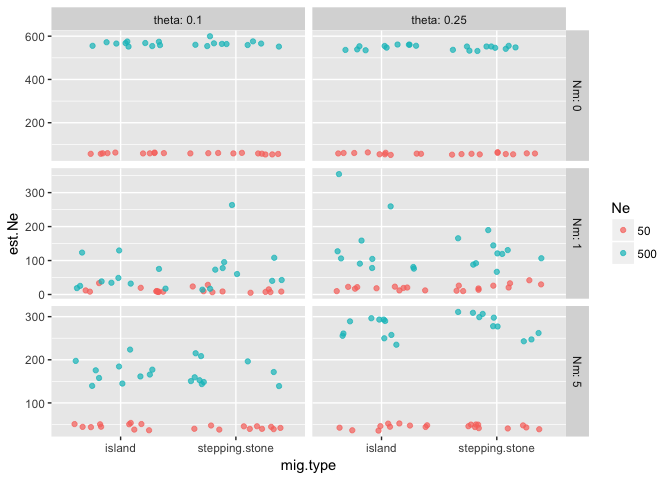
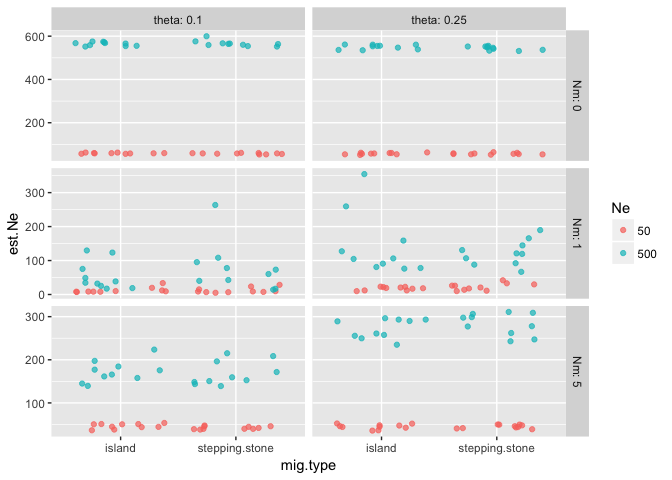
readme update

diff --git a/README.md b/README.md
@@ -1,7 +1,7 @@
 Simulated Data Summary, version 5
 =================================
 
-    2016-12-25
+    2016-12-29
 
 The data was generated with a fastsimcoal simulation that created allele frequencies at equilibrium and were then used to initialize and run 5 generations of an rmetasim simulation.
 
@@ -84,7 +84,7 @@ Simulated data diagnostics
 
 Below are diagnostic values from the final datasets generated from fastsimcoal and rmetasim. Ten replicates of the above scenarios were run through fastsimcoal, and the resulting allele frequencies were used to initialize a single run of rmetasim for 5 generations.
 
--   Ne (est.Ne) is estimated with the `ldNe` function in strataG with a MAF cutoff of 0.05.
+-   Ne (est.Ne) is the harmonic mean of estimated Ne calculated with the `ldNe` function in strataG with a MAF cutoff of 0.05.
 -   Fst (est.Fst) is estimated with Weir and Cockerhams Fst from the `statFst` function in strataG. The value shown is the Fst value from the global test of differentiation for all 5 populations.
 -   Observed Heterozygosity (obs.Het) is the mean value for all loci in all populations (n = 5000 loci).
 -   Theta (est.Theta) is estimated with theta based on heterozygosity from the `theta.h` function in pegas (called by the `theta` function in strataG). The value is mean value for all loci in all populations (n = 5000 loci).
